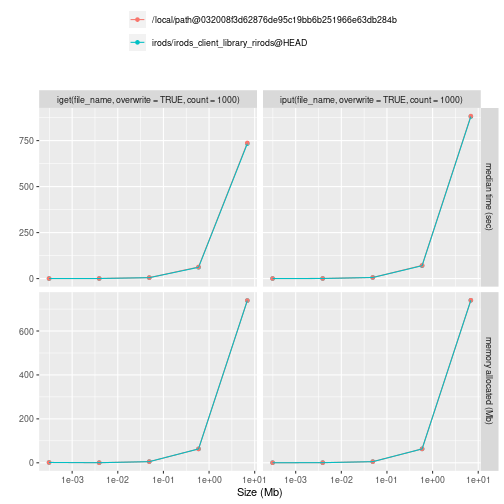
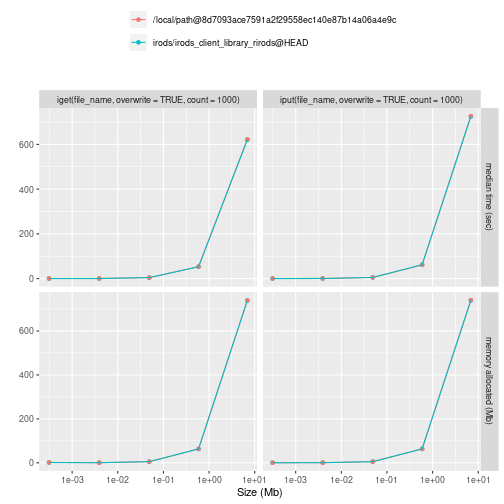
Benchmark results

diff --git a/inst/bench/README.md b/inst/bench/README.md
@@ -64,7 +64,7 @@ The results are based on the HEAD of the main branch on the iRODS organization r
    <td style="text-align:right;"> HEAD </td>
    <td style="text-align:right;"> 312 </td>
    <td style="text-align:right;"> iget(file_name, overwrite = TRUE, count = 1000) </td>
-   <td style="text-align:right;"> 205.94ms </td>
+   <td style="text-align:right;"> 177.1ms </td>
    <td style="text-align:right;"> 1.44MB </td>
   </tr>
   <tr>
@@ -72,7 +72,7 @@ The results are based on the HEAD of the main branch on the iRODS organization r
    <td style="text-align:right;"> HEAD </td>
    <td style="text-align:right;"> 312 </td>
    <td style="text-align:right;"> iput(file_name, overwrite = TRUE, count = 1000) </td>
-   <td style="text-align:right;"> 269.91ms </td>
+   <td style="text-align:right;"> 252.66ms </td>
    <td style="text-align:right;"> 315.59KB </td>
   </tr>
   <tr>
@@ -80,23 +80,23 @@ The results are based on the HEAD of the main branch on the iRODS organization r
    <td style="text-align:right;"> HEAD </td>
    <td style="text-align:right;"> 3913 </td>
    <td style="text-align:right;"> iget(file_name, overwrite = TRUE, count = 1000) </td>
-   <td style="text-align:right;"> 403.7ms </td>
-   <td style="text-align:right;"> 438.13KB </td>
+   <td style="text-align:right;"> 368.62ms </td>
+   <td style="text-align:right;"> 437.51KB </td>
   </tr>
   <tr>
    <td style="text-align:right;"> irods/irods_client_library_rirods </td>
    <td style="text-align:right;"> HEAD </td>
    <td style="text-align:right;"> 3913 </td>
    <td style="text-align:right;"> iput(file_name, overwrite = TRUE, count = 1000) </td>
-   <td style="text-align:right;"> 482.71ms </td>
-   <td style="text-align:right;"> 567.65KB </td>
+   <td style="text-align:right;"> 421.44ms </td>
+   <td style="text-align:right;"> 567.64KB </td>
   </tr>
   <tr>
    <td style="text-align:right;"> irods/irods_client_library_rirods </td>
    <td style="text-align:right;"> HEAD </td>
    <td style="text-align:right;"> 48914 </td>
    <td style="text-align:right;"> iget(file_name, overwrite = TRUE, count = 1000) </td>
-   <td style="text-align:right;"> 4.97s </td>
+   <td style="text-align:right;"> 4.47s </td>
    <td style="text-align:right;"> 5.25MB </td>
   </tr>
   <tr>
@@ -104,7 +104,7 @@ The results are based on the HEAD of the main branch on the iRODS organization r
    <td style="text-align:right;"> HEAD </td>
    <td style="text-align:right;"> 48914 </td>
    <td style="text-align:right;"> iput(file_name, overwrite = TRUE, count = 1000) </td>
-   <td style="text-align:right;"> 5.96s </td>
+   <td style="text-align:right;"> 5.2s </td>
    <td style="text-align:right;"> 5.25MB </td>
   </tr>
   <tr>
@@ -112,7 +112,7 @@ The results are based on the HEAD of the main branch on the iRODS organization r
    <td style="text-align:right;"> HEAD </td>
    <td style="text-align:right;"> 588915 </td>
    <td style="text-align:right;"> iget(file_name, overwrite = TRUE, count = 1000) </td>
-   <td style="text-align:right;"> 1.02m </td>
+   <td style="text-align:right;"> 52.8s </td>
    <td style="text-align:right;"> 63.16MB </td>
   </tr>
   <tr>
@@ -120,7 +120,7 @@ The results are based on the HEAD of the main branch on the iRODS organization r
    <td style="text-align:right;"> HEAD </td>
    <td style="text-align:right;"> 588915 </td>
    <td style="text-align:right;"> iput(file_name, overwrite = TRUE, count = 1000) </td>
-   <td style="text-align:right;"> 1.17m </td>
+   <td style="text-align:right;"> 1.03m </td>
    <td style="text-align:right;"> 63.25MB </td>
   </tr>
   <tr>
@@ -128,96 +128,96 @@ The results are based on the HEAD of the main branch on the iRODS organization r
    <td style="text-align:right;"> HEAD </td>
    <td style="text-align:right;"> 6888916 </td>
    <td style="text-align:right;"> iget(file_name, overwrite = TRUE, count = 1000) </td>
-   <td style="text-align:right;"> 12.22m </td>
-   <td style="text-align:right;"> 738.66MB </td>
+   <td style="text-align:right;"> 10.34m </td>
+   <td style="text-align:right;"> 738.58MB </td>
   </tr>
   <tr>
    <td style="text-align:right;"> irods/irods_client_library_rirods </td>
    <td style="text-align:right;"> HEAD </td>
    <td style="text-align:right;"> 6888916 </td>
    <td style="text-align:right;"> iput(file_name, overwrite = TRUE, count = 1000) </td>
-   <td style="text-align:right;"> 14.68m </td>
-   <td style="text-align:right;"> 739.9MB </td>
+   <td style="text-align:right;"> 12.08m </td>
+   <td style="text-align:right;"> 739.84MB </td>
   </tr>
   <tr>
    <td style="text-align:right;"> /local/path </td>
-   <td style="text-align:right;"> 032008f3d62876de95c19bb6b251966e63db284b </td>
+   <td style="text-align:right;"> 8d7093ace7591a2f29558ec140e87b14a06a4e9c </td>
    <td style="text-align:right;"> 312 </td>
    <td style="text-align:right;"> iget(file_name, overwrite = TRUE, count = 1000) </td>
-   <td style="text-align:right;"> 221.86ms </td>
+   <td style="text-align:right;"> 179.12ms </td>
    <td style="text-align:right;"> 1.44MB </td>
   </tr>
   <tr>
    <td style="text-align:right;"> /local/path </td>
-   <td style="text-align:right;"> 032008f3d62876de95c19bb6b251966e63db284b </td>
+   <td style="text-align:right;"> 8d7093ace7591a2f29558ec140e87b14a06a4e9c </td>
    <td style="text-align:right;"> 312 </td>
    <td style="text-align:right;"> iput(file_name, overwrite = TRUE, count = 1000) </td>
-   <td style="text-align:right;"> 258.7ms </td>
-   <td style="text-align:right;"> 315.59KB </td>
+   <td style="text-align:right;"> 261.75ms </td>
+   <td style="text-align:right;"> 318.42KB </td>
   </tr>
   <tr>
    <td style="text-align:right;"> /local/path </td>
-   <td style="text-align:right;"> 032008f3d62876de95c19bb6b251966e63db284b </td>
+   <td style="text-align:right;"> 8d7093ace7591a2f29558ec140e87b14a06a4e9c </td>
    <td style="text-align:right;"> 3913 </td>
    <td style="text-align:right;"> iget(file_name, overwrite = TRUE, count = 1000) </td>
-   <td style="text-align:right;"> 428.21ms </td>
+   <td style="text-align:right;"> 356.22ms </td>
    <td style="text-align:right;"> 437.51KB </td>
   </tr>
   <tr>
    <td style="text-align:right;"> /local/path </td>
-   <td style="text-align:right;"> 032008f3d62876de95c19bb6b251966e63db284b </td>
+   <td style="text-align:right;"> 8d7093ace7591a2f29558ec140e87b14a06a4e9c </td>
    <td style="text-align:right;"> 3913 </td>
    <td style="text-align:right;"> iput(file_name, overwrite = TRUE, count = 1000) </td>
-   <td style="text-align:right;"> 511.99ms </td>
+   <td style="text-align:right;"> 447.14ms </td>
    <td style="text-align:right;"> 567.64KB </td>
   </tr>
   <tr>
    <td style="text-align:right;"> /local/path </td>
-   <td style="text-align:right;"> 032008f3d62876de95c19bb6b251966e63db284b </td>
+   <td style="text-align:right;"> 8d7093ace7591a2f29558ec140e87b14a06a4e9c </td>
    <td style="text-align:right;"> 48914 </td>
    <td style="text-align:right;"> iget(file_name, overwrite = TRUE, count = 1000) </td>
-   <td style="text-align:right;"> 5.17s </td>
+   <td style="text-align:right;"> 4.4s </td>
    <td style="text-align:right;"> 5.25MB </td>
   </tr>
   <tr>
    <td style="text-align:right;"> /local/path </td>
-   <td style="text-align:right;"> 032008f3d62876de95c19bb6b251966e63db284b </td>
+   <td style="text-align:right;"> 8d7093ace7591a2f29558ec140e87b14a06a4e9c </td>
    <td style="text-align:right;"> 48914 </td>
    <td style="text-align:right;"> iput(file_name, overwrite = TRUE, count = 1000) </td>
-   <td style="text-align:right;"> 5.97s </td>
+   <td style="text-align:right;"> 5.12s </td>
    <td style="text-align:right;"> 5.25MB </td>
   </tr>
   <tr>
    <td style="text-align:right;"> /local/path </td>
-   <td style="text-align:right;"> 032008f3d62876de95c19bb6b251966e63db284b </td>
+   <td style="text-align:right;"> 8d7093ace7591a2f29558ec140e87b14a06a4e9c </td>
    <td style="text-align:right;"> 588915 </td>
    <td style="text-align:right;"> iget(file_name, overwrite = TRUE, count = 1000) </td>
-   <td style="text-align:right;"> 1.05m </td>
-   <td style="text-align:right;"> 63.17MB </td>
+   <td style="text-align:right;"> 53.3s </td>
+   <td style="text-align:right;"> 63.16MB </td>
   </tr>
   <tr>
    <td style="text-align:right;"> /local/path </td>
-   <td style="text-align:right;"> 032008f3d62876de95c19bb6b251966e63db284b </td>
+   <td style="text-align:right;"> 8d7093ace7591a2f29558ec140e87b14a06a4e9c </td>
    <td style="text-align:right;"> 588915 </td>
    <td style="text-align:right;"> iput(file_name, overwrite = TRUE, count = 1000) </td>
-   <td style="text-align:right;"> 1.19m </td>
-   <td style="text-align:right;"> 63.25MB </td>
+   <td style="text-align:right;"> 1.03m </td>
+   <td style="text-align:right;"> 63.24MB </td>
   </tr>
   <tr>
    <td style="text-align:right;"> /local/path </td>
-   <td style="text-align:right;"> 032008f3d62876de95c19bb6b251966e63db284b </td>
+   <td style="text-align:right;"> 8d7093ace7591a2f29558ec140e87b14a06a4e9c </td>
    <td style="text-align:right;"> 6888916 </td>
    <td style="text-align:right;"> iget(file_name, overwrite = TRUE, count = 1000) </td>
-   <td style="text-align:right;"> 12.29m </td>
-   <td style="text-align:right;"> 738.67MB </td>
+   <td style="text-align:right;"> 10.37m </td>
+   <td style="text-align:right;"> 738.59MB </td>
   </tr>
   <tr>
    <td style="text-align:right;"> /local/path </td>
-   <td style="text-align:right;"> 032008f3d62876de95c19bb6b251966e63db284b </td>
+   <td style="text-align:right;"> 8d7093ace7591a2f29558ec140e87b14a06a4e9c </td>
    <td style="text-align:right;"> 6888916 </td>
    <td style="text-align:right;"> iput(file_name, overwrite = TRUE, count = 1000) </td>
-   <td style="text-align:right;"> 14.72m </td>
-   <td style="text-align:right;"> 739.93MB </td>
+   <td style="text-align:right;"> 12.11m </td>
+   <td style="text-align:right;"> 739.83MB </td>
   </tr>
 </tbody>
 </table>
@@ -250,7 +250,7 @@ The results are based on the HEAD of the main branch on the iRODS organization r
    <td style="text-align:right;"> HEAD </td>
    <td style="text-align:right;"> 1152 </td>
    <td style="text-align:right;"> isaveRDS(object, &quot;&quot;object.rds&quot;&quot;, overwrite = TRUE, count = 1000) </td>
-   <td style="text-align:right;"> 257ms </td>
+   <td style="text-align:right;"> 220ms </td>
    <td style="text-align:right;"> 70.4KB </td>
   </tr>
   <tr>
@@ -258,7 +258,7 @@ The results are based on the HEAD of the main branch on the iRODS organization r
    <td style="text-align:right;"> HEAD </td>
    <td style="text-align:right;"> 1152 </td>
    <td style="text-align:right;"> ireadRDS(&quot;&quot;object.rds&quot;&quot;, count = 1000) </td>
-   <td style="text-align:right;"> 203ms </td>
+   <td style="text-align:right;"> 175ms </td>
    <td style="text-align:right;"> 70.7KB </td>
   </tr>
   <tr>
@@ -266,15 +266,15 @@ The results are based on the HEAD of the main branch on the iRODS organization r
    <td style="text-align:right;"> HEAD </td>
    <td style="text-align:right;"> 4752 </td>
    <td style="text-align:right;"> isaveRDS(object, &quot;&quot;object.rds&quot;&quot;, overwrite = TRUE, count = 1000) </td>
-   <td style="text-align:right;"> 262ms </td>
-   <td style="text-align:right;"> 71KB </td>
+   <td style="text-align:right;"> 216ms </td>
+   <td style="text-align:right;"> 70.4KB </td>
   </tr>
   <tr>
    <td style="text-align:right;"> irods/irods_client_library_rirods </td>
    <td style="text-align:right;"> HEAD </td>
    <td style="text-align:right;"> 4752 </td>
    <td style="text-align:right;"> ireadRDS(&quot;&quot;object.rds&quot;&quot;, count = 1000) </td>
-   <td style="text-align:right;"> 221ms </td>
+   <td style="text-align:right;"> 174ms </td>
    <td style="text-align:right;"> 67KB </td>
   </tr>
   <tr>
@@ -282,7 +282,7 @@ The results are based on the HEAD of the main branch on the iRODS organization r
    <td style="text-align:right;"> HEAD </td>
    <td style="text-align:right;"> 40752 </td>
    <td style="text-align:right;"> isaveRDS(object, &quot;&quot;object.rds&quot;&quot;, overwrite = TRUE, count = 1000) </td>
-   <td style="text-align:right;"> 251ms </td>
+   <td style="text-align:right;"> 219ms </td>
    <td style="text-align:right;"> 70.4KB </td>
   </tr>
   <tr>
@@ -290,7 +290,7 @@ The results are based on the HEAD of the main branch on the iRODS organization r
    <td style="text-align:right;"> HEAD </td>
    <td style="text-align:right;"> 40752 </td>
    <td style="text-align:right;"> ireadRDS(&quot;&quot;object.rds&quot;&quot;, count = 1000) </td>
-   <td style="text-align:right;"> 201ms </td>
+   <td style="text-align:right;"> 174ms </td>
    <td style="text-align:right;"> 67KB </td>
   </tr>
   <tr>
@@ -298,7 +298,7 @@ The results are based on the HEAD of the main branch on the iRODS organization r
    <td style="text-align:right;"> HEAD </td>
    <td style="text-align:right;"> 400752 </td>
    <td style="text-align:right;"> isaveRDS(object, &quot;&quot;object.rds&quot;&quot;, overwrite = TRUE, count = 1000) </td>
-   <td style="text-align:right;"> 259ms </td>
+   <td style="text-align:right;"> 218ms </td>
    <td style="text-align:right;"> 70.4KB </td>
   </tr>
   <tr>
@@ -306,7 +306,7 @@ The results are based on the HEAD of the main branch on the iRODS organization r
    <td style="text-align:right;"> HEAD </td>
    <td style="text-align:right;"> 400752 </td>
    <td style="text-align:right;"> ireadRDS(&quot;&quot;object.rds&quot;&quot;, count = 1000) </td>
-   <td style="text-align:right;"> 211ms </td>
+   <td style="text-align:right;"> 175ms </td>
    <td style="text-align:right;"> 67KB </td>
   </tr>
   <tr>
@@ -314,95 +314,95 @@ The results are based on the HEAD of the main branch on the iRODS organization r
    <td style="text-align:right;"> HEAD </td>
    <td style="text-align:right;"> 4000752 </td>
    <td style="text-align:right;"> isaveRDS(object, &quot;&quot;object.rds&quot;&quot;, overwrite = TRUE, count = 1000) </td>
-   <td style="text-align:right;"> 246ms </td>
-   <td style="text-align:right;"> 71KB </td>
+   <td style="text-align:right;"> 214ms </td>
+   <td style="text-align:right;"> 70.4KB </td>
   </tr>
   <tr>
    <td style="text-align:right;"> irods/irods_client_library_rirods </td>
    <td style="text-align:right;"> HEAD </td>
    <td style="text-align:right;"> 4000752 </td>
    <td style="text-align:right;"> ireadRDS(&quot;&quot;object.rds&quot;&quot;, count = 1000) </td>
-   <td style="text-align:right;"> 217ms </td>
+   <td style="text-align:right;"> 185ms </td>
    <td style="text-align:right;"> 67KB </td>
   </tr>
   <tr>
    <td style="text-align:right;"> /local/path </td>
-   <td style="text-align:right;"> 032008f3d62876de95c19bb6b251966e63db284b </td>
+   <td style="text-align:right;"> 8d7093ace7591a2f29558ec140e87b14a06a4e9c </td>
    <td style="text-align:right;"> 1152 </td>
    <td style="text-align:right;"> isaveRDS(object, &quot;&quot;object.rds&quot;&quot;, overwrite = TRUE, count = 1000) </td>
-   <td style="text-align:right;"> 293ms </td>
+   <td style="text-align:right;"> 223ms </td>
    <td style="text-align:right;"> 70.4KB </td>
   </tr>
   <tr>
    <td style="text-align:right;"> /local/path </td>
-   <td style="text-align:right;"> 032008f3d62876de95c19bb6b251966e63db284b </td>
+   <td style="text-align:right;"> 8d7093ace7591a2f29558ec140e87b14a06a4e9c </td>
    <td style="text-align:right;"> 1152 </td>
    <td style="text-align:right;"> ireadRDS(&quot;&quot;object.rds&quot;&quot;, count = 1000) </td>
-   <td style="text-align:right;"> 216ms </td>
+   <td style="text-align:right;"> 184ms </td>
    <td style="text-align:right;"> 73.6KB </td>
   </tr>
   <tr>
    <td style="text-align:right;"> /local/path </td>
-   <td style="text-align:right;"> 032008f3d62876de95c19bb6b251966e63db284b </td>
+   <td style="text-align:right;"> 8d7093ace7591a2f29558ec140e87b14a06a4e9c </td>
    <td style="text-align:right;"> 4752 </td>
    <td style="text-align:right;"> isaveRDS(object, &quot;&quot;object.rds&quot;&quot;, overwrite = TRUE, count = 1000) </td>
-   <td style="text-align:right;"> 244ms </td>
+   <td style="text-align:right;"> 222ms </td>
    <td style="text-align:right;"> 70.4KB </td>
   </tr>
   <tr>
    <td style="text-align:right;"> /local/path </td>
-   <td style="text-align:right;"> 032008f3d62876de95c19bb6b251966e63db284b </td>
+   <td style="text-align:right;"> 8d7093ace7591a2f29558ec140e87b14a06a4e9c </td>
    <td style="text-align:right;"> 4752 </td>
    <td style="text-align:right;"> ireadRDS(&quot;&quot;object.rds&quot;&quot;, count = 1000) </td>
-   <td style="text-align:right;"> 204ms </td>
+   <td style="text-align:right;"> 186ms </td>
    <td style="text-align:right;"> 67KB </td>
   </tr>
   <tr>
    <td style="text-align:right;"> /local/path </td>
-   <td style="text-align:right;"> 032008f3d62876de95c19bb6b251966e63db284b </td>
+   <td style="text-align:right;"> 8d7093ace7591a2f29558ec140e87b14a06a4e9c </td>
    <td style="text-align:right;"> 40752 </td>
    <td style="text-align:right;"> isaveRDS(object, &quot;&quot;object.rds&quot;&quot;, overwrite = TRUE, count = 1000) </td>
-   <td style="text-align:right;"> 255ms </td>
+   <td style="text-align:right;"> 216ms </td>
    <td style="text-align:right;"> 70.4KB </td>
   </tr>
   <tr>
    <td style="text-align:right;"> /local/path </td>
-   <td style="text-align:right;"> 032008f3d62876de95c19bb6b251966e63db284b </td>
+   <td style="text-align:right;"> 8d7093ace7591a2f29558ec140e87b14a06a4e9c </td>
    <td style="text-align:right;"> 40752 </td>
    <td style="text-align:right;"> ireadRDS(&quot;&quot;object.rds&quot;&quot;, count = 1000) </td>
-   <td style="text-align:right;"> 215ms </td>
+   <td style="text-align:right;"> 177ms </td>
    <td style="text-align:right;"> 67KB </td>
   </tr>
   <tr>
    <td style="text-align:right;"> /local/path </td>
-   <td style="text-align:right;"> 032008f3d62876de95c19bb6b251966e63db284b </td>
+   <td style="text-align:right;"> 8d7093ace7591a2f29558ec140e87b14a06a4e9c </td>
    <td style="text-align:right;"> 400752 </td>
    <td style="text-align:right;"> isaveRDS(object, &quot;&quot;object.rds&quot;&quot;, overwrite = TRUE, count = 1000) </td>
-   <td style="text-align:right;"> 249ms </td>
+   <td style="text-align:right;"> 216ms </td>
    <td style="text-align:right;"> 70.4KB </td>
   </tr>
   <tr>
    <td style="text-align:right;"> /local/path </td>
-   <td style="text-align:right;"> 032008f3d62876de95c19bb6b251966e63db284b </td>
+   <td style="text-align:right;"> 8d7093ace7591a2f29558ec140e87b14a06a4e9c </td>
    <td style="text-align:right;"> 400752 </td>
    <td style="text-align:right;"> ireadRDS(&quot;&quot;object.rds&quot;&quot;, count = 1000) </td>
-   <td style="text-align:right;"> 201ms </td>
+   <td style="text-align:right;"> 179ms </td>
    <td style="text-align:right;"> 67KB </td>
   </tr>
   <tr>
    <td style="text-align:right;"> /local/path </td>
-   <td style="text-align:right;"> 032008f3d62876de95c19bb6b251966e63db284b </td>
+   <td style="text-align:right;"> 8d7093ace7591a2f29558ec140e87b14a06a4e9c </td>
    <td style="text-align:right;"> 4000752 </td>
    <td style="text-align:right;"> isaveRDS(object, &quot;&quot;object.rds&quot;&quot;, overwrite = TRUE, count = 1000) </td>
-   <td style="text-align:right;"> 254ms </td>
+   <td style="text-align:right;"> 217ms </td>
    <td style="text-align:right;"> 70.4KB </td>
   </tr>
   <tr>
    <td style="text-align:right;"> /local/path </td>
-   <td style="text-align:right;"> 032008f3d62876de95c19bb6b251966e63db284b </td>
+   <td style="text-align:right;"> 8d7093ace7591a2f29558ec140e87b14a06a4e9c </td>
    <td style="text-align:right;"> 4000752 </td>
    <td style="text-align:right;"> ireadRDS(&quot;&quot;object.rds&quot;&quot;, count = 1000) </td>
-   <td style="text-align:right;"> 212ms </td>
+   <td style="text-align:right;"> 177ms </td>
    <td style="text-align:right;"> 67KB </td>
   </tr>
 </tbody>
